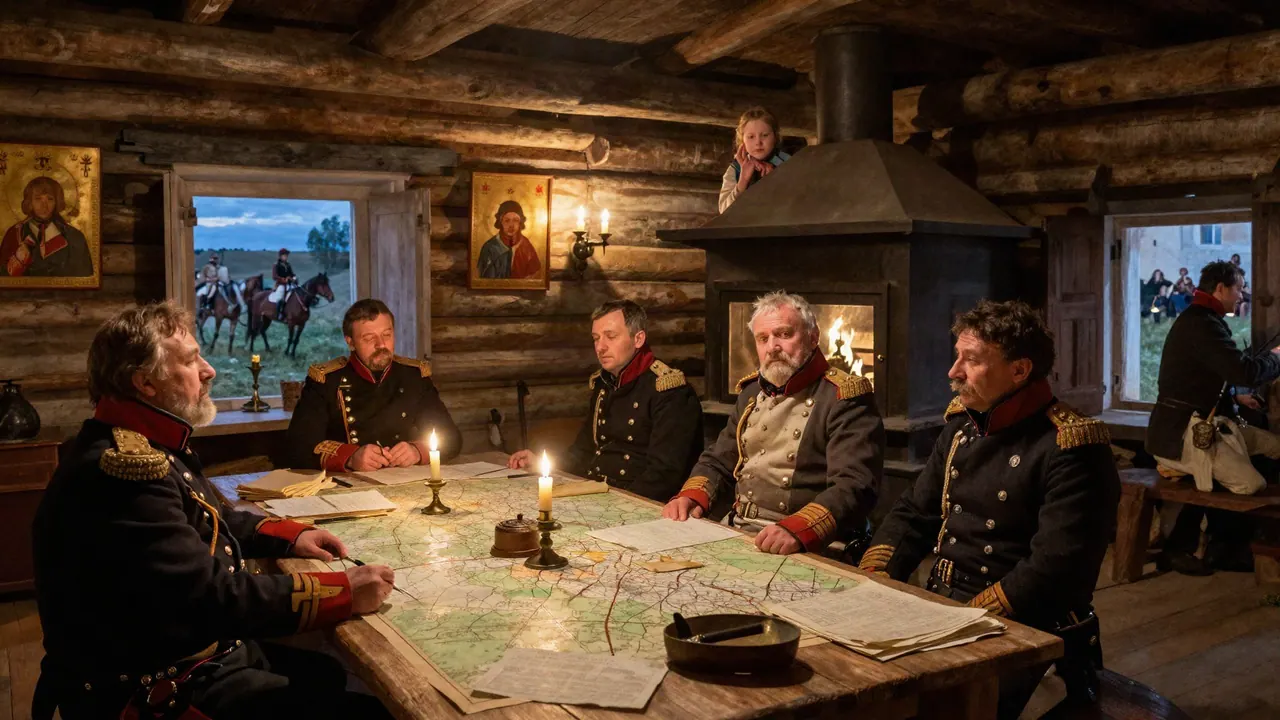
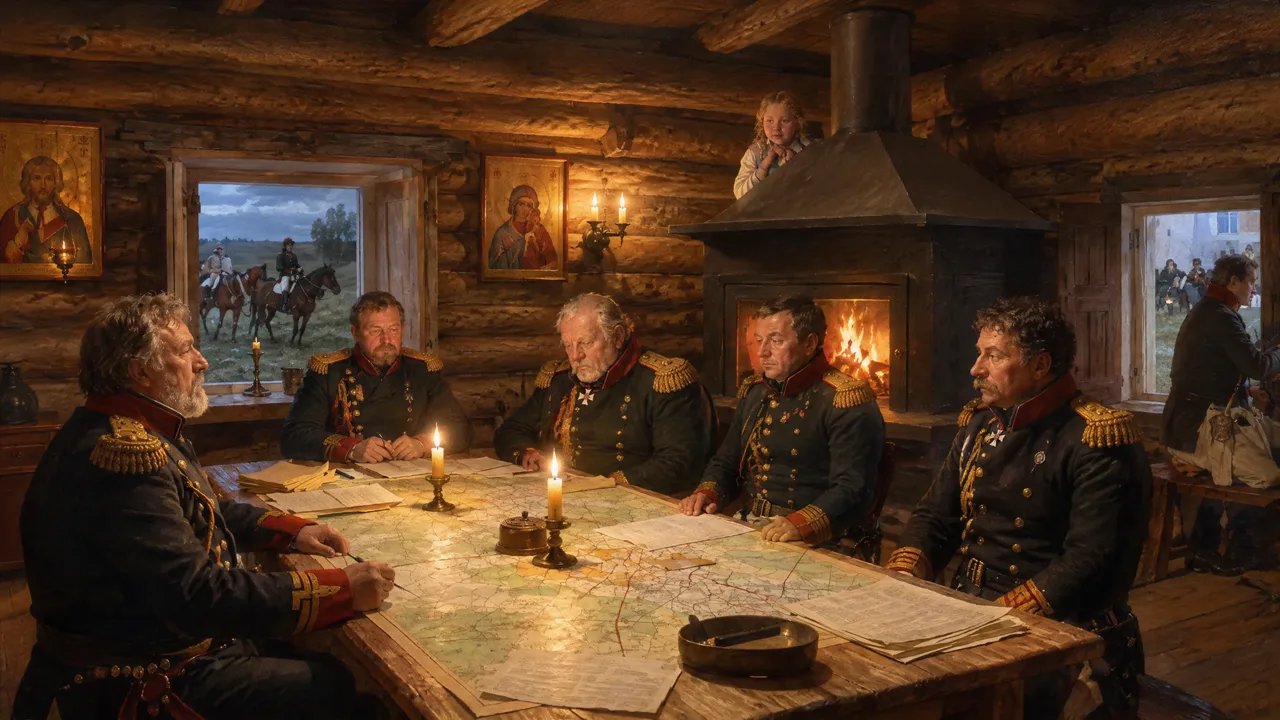
Круговые панорамы: «Фили» (реалистичнее, Кутузов), «Герой нашего времени» (на основе прежнего кадра), «Бородино» (новый узнаваемый кадр с Пьером на батарее Раевского); новые скрытые детали

diff --git a/index.html b/index.html
@@ -869,14 +869,14 @@ const ROUNDS = [
    details:['семь пар лаптей у костра','скатерть-самобранка','птичка-пеночка','верстовой столб','две старые сосны','корова с колокольчиком','ворон у костра'],
    desc:'Семь временнообязанных мужиков из соседних деревень — Заплатова, Дырявина, Разутова, Знобишина, Горелова, Неелова и Неурожайки — сошлись на столбовой дороге и заспорили, кому живётся весело, вольготно на Руси. Пеночка дарит им скатерть-самобранку, и они отправляются в путь искать счастливого.',
    quote:'В каком году — рассчитывай,\nВ какой земле — угадывай,\nНа столбовой дороженьке\nСошлись семь мужиков…', cite:'Н. А. Некрасов, «Кому на Руси жить хорошо»'},
-  {id:'borodino', set:6, img:'img/s_borodino.jpg', title:'Война и мир', titleAlt:['война и мир'],
+  {id:'borodino', loop:1, set:6, img:'img/s_borodino.jpg', title:'Война и мир', titleAlt:['война и мир'],
    author:'tolstoy', dir:4, year:'1867–1869', place:'Бородинское поле, батарея Раевского', city:'borodino', tol:30, accept:['бородин','можайск','раевск'],
-   details:['курган с батареей','белая шляпа и зелёный фрак','дым над полем','горящая деревня'],
+   details:['курган с батареей','белая шляпа и зелёный фрак','дым над полем','горящая деревня','зелёные зарядные ящики','белая церковь в селе','река Колоча','ополченцы в белых рубахах','колонны французов'],
    desc:'Бородинское сражение глазами Пьера Безухова: штатский в белой шляпе и зелёном фраке попадает на батарею Раевского в самый разгар боя. Солдаты сначала смеются над ним, потом принимают как своего; к концу дня на батарее почти никого не остаётся.',
    quote:'Весь интерес мой сосредоточился на том, что происходит…', cite:'Л. Н. Толстой, «Война и мир»'},
-  {id:'fili', set:6, img:'img/s_fili.jpg', title:'Война и мир', titleAlt:['война и мир'],
+  {id:'fili', loop:1, set:6, img:'img/s_fili.jpg', title:'Война и мир', titleAlt:['война и мир'],
    author:'tolstoy', dir:4, year:'1867–1869', place:'Фили, изба крестьянина Андрея Савостьянова', city:'msk', tol:0, accept:['фил','москв','савостьянов'],
-   details:['генералы за столом с картами','девочка на печи','иконы и лампадка','свечи'],
+   details:['генералы за столом с картами','девочка на печи','иконы и лампадка','свечи','шинель на гвозде','печь и самовар на полке','хлеб на столе','окно с всадниками'],
    desc:'Военный совет в Филях: в лучшей избе крестьянина Андрея Савостьянова решают, давать ли бой под Москвой. Кутузов берёт на себя решение оставить Москву. Всё это видит шестилетняя Малаша с печи — для неё это спор «дедушки» с «длиннополым».',
    quote:'…я приказываю отступление.', cite:'Л. Н. Толстой, «Война и мир»'},
   {id:'braslet', loop:1, set:6, img:'img/s_braslet.jpg', title:'Гранатовый браслет', titleAlt:['гранатовый браслет'],
@@ -889,9 +889,9 @@ const ROUNDS = [
    details:['стальная блоха под «мелкоскопом»','крохотные инструменты','табакерка','ружья на стене'],
    desc:'Английские мастера дарят царю стальную блоху, которая танцует. Три тульских оружейника, запершись в избе, отвечают так, что без «мелкоскопа» и не разглядишь: подковывают блоху. Левша ставит гвоздики, а сама подкова настолько мала, что её не видно. Сказ о таланте, который отечеству оказывается не нужен.',
    quote:'…мы в науках не зашлись, но только своему отечеству верно преданные.', cite:'Н. С. Лесков, «Левша»'},
-  {id:'meri', set:6, img:'img/s_meri.jpg', title:'Герой нашего времени', titleAlt:['герой нашего времени','княжна мери'],
+  {id:'meri', loop:1, set:6, img:'img/s_meri.jpg', title:'Герой нашего времени', titleAlt:['герой нашего времени','княжна мери'],
    author:'lermontov', dir:4, dirAlt:[3], year:'1840', place:'Пятигорск, бульвар у источника', city:'pyatigorsk', tol:30, accept:['пятигорск','кисловодск','машук'],
-   details:['стакан у колодца','галерея источника','Машук','снежные вершины на горизонте'],
+   details:['стакан у колодца','галерея источника','Машук','снежные вершины на горизонте','колоннада с арками','гора, похожая на мохнатую шапку','пятиглавая гора'],
    desc:'Водяное общество на Кавказских минеральных водах: у колодца пьют кислую воду, по бульвару гуляют. Печорин от скуки начинает игру с юной княжной и соперником Грушницким, а игра кончается дуэлью. Повесть «Княжна Мери» — журнал Печорина.',
    quote:'Из двух друзей всегда один раб другого, хотя часто ни один из них в этом себе не признается.', cite:'М. Ю. Лермонтов, «Герой нашего времени»'},
   {id:'strannik', loop:1, set:6, img:'img/s_strannik.jpg', title:'Очарованный странник', titleAlt:['очарованный странник'],
@@ -1115,11 +1115,16 @@ const SPOTS={
           {x:0.4367,y:0.312,w:0.2183,h:0.226,t:'Казарменные ряды',q:'Одинаковые серые дома в ряд по линейке: окна, двери — всё одной мерки.'},
           {x:0.5568,y:0.087,w:0.0509,h:0.382,t:'Каланча',q:'Каланча с полосатой будкой: за всем следят, но никто не знает, зачем.'},
           {x:0.5058,y:0.252,w:0.0655,h:0.148,t:'Разобранные крыши',q:'Крыши растащены на дрова и солому: под открытым небом дешевле, чем под казённой кровлей.'}],
- borodino:[{x:.35,y:.47,w:.06,h:.1,t:'Белая шляпа',q:'Штатский среди мундиров: приехал просто посмотреть и всем мешает. Солдаты скоро его полюбят.'},
-          {x:.1,y:.65,w:.22,h:.24,t:'Батарея',q:'Курган с пушками в центре позиции. Интересный факт: французы звали его «редутом смерти».'},
-          {x:.58,y:.28,w:.2,h:.1,t:'Горящая деревня',q:'Деревушка даст имя всему сражению, хотя от неё самой почти ничего не останется.'},
-          {x:.41,y:.89,w:.15,h:.1,t:'Ядра',q:'Интересный факт: за один день обе армии сделали десятки тысяч пушечных выстрелов.'},
-          {x:.33,y:.18,w:.28,h:.18,t:'Дым',q:'К полудню дым стоял такой, что командиры уже не видели собственных полков.'}],
+ borodino:[{x:0.3770,y:0.444,w:0.0451,h:0.465,t:'Белая шляпа',q:'Штатский среди мундиров: приехал просто посмотреть и всем мешает. Солдаты скоро его полюбят.'},
+          {x:0.2183,y:0.417,w:0.1528,h:0.389,t:'Батарея',q:'Курган с пушками в центре позиции. Интересный факт: французы звали его «редутом смерти».'},
+          {x:0.7424,y:0.052,w:0.0655,h:0.208,t:'Горящая деревня',q:'Деревушка даст имя всему сражению, хотя от неё самой почти ничего не останется.'},
+          {x:0.0291,y:0.816,w:0.0509,h:0.115,t:'Ядра',q:'Интересный факт: за один день обе армии сделали десятки тысяч пушечных выстрелов.'},
+          {x:0.2402,y:0.208,w:0.2256,h:0.312,t:'Дым',q:'К полудню дым стоял такой, что командиры уже не видели собственных полков.'},
+          {x:0.1565,y:0.712,w:0.0546,h:0.156,t:'Зарядные ящики',q:'Без этих ящиков орудия замолчат через несколько залпов. Их подвозили прямо под огнём.'},
+          {x:0.4316,y:0.191,w:0.0182,h:0.149,t:'Белая церковь',q:'Накануне боя перед войсками несли чудотворную икону, и солдаты опускались на колени.'},
+          {x:0.6405,y:0.469,w:0.1419,h:0.174,t:'Река',q:'Небольшая речка перед позицией. Бой в тот день начался у переправ через неё.'},
+          {x:0.6878,y:0.694,w:0.0946,h:0.295,t:'Ополченцы',q:'Ратники в белых рубахах с крестами на шапках: они таскают раненых с поля и работают на укреплениях.'},
+          {x:0.7933,y:0.365,w:0.1237,h:0.191,t:'Колонны на дальнем краю',q:'Тёмные колонны идут через поле одна за другой. Атаки не прекращаются до самого вечера.'}],
  sobach:[{x:0.2552,y:.15,w:0.0745,h:.14,t:'Совы',q:'Одну из них скоро распотрошат — и явно не хозяин квартиры.'},
           {x:0.3260,y:.46,w:0.0671,h:.08,t:'Струны',q:'Загадка: на этом инструменте кто-то будет бренчать до двух часов ночи, доводя хозяина до бешенства.'},
           {x:0.3930,y:.25,w:0.0447,h:.24,t:'Шкаф с инструментами',q:'Хозяин квартиры возвращает людям молодость. Пациенты платят щедро и помалкивают.'},
@@ -1140,12 +1145,17 @@ const SPOTS={
           {x:0.1092,y:0.035,w:0.0873,h:0.312,t:'Две сосны',q:'Верста от тридцатого столба — и поляна с двумя старыми соснами. Под ними кое-что закопано.'},
           {x:0.6514,y:0.333,w:0.1055,h:0.434,t:'Корова',q:'Отбилась от стада с вечера, а на людские голоса отозвалась колокольчиком.'},
           {x:0.7351,y:0.056,w:0.0255,h:0.122,t:'Ворон',q:'Умная птица: сидит на дереве у самого костра и ждёт, что здесь начнётся.'}],
- fili:[{x:.55,y:.14,w:.08,h:.16,t:'Девочка на печи',q:'Самому внимательному свидетелю этого вечера шесть лет. Она болеет за «дедушку».'},
-          {x:.56,y:.4,w:.13,h:.32,t:'Старый генерал',q:'Кажется, он дремлет. На самом деле решение уже принято — вопрос лишь в том, кто скажет его вслух.'},
-          {x:.38,y:.74,w:.3,h:.18,t:'Карта',q:'На карте город, за который стоять или не стоять. Цена ответа — судьба всей армии.'},
-          {x:0,y:.19,w:.09,h:.22,t:'Красный угол',q:'Изба крестьянская, хозяева уступили её на один вечер.'},
-          {x:.36,y:.23,w:.08,h:.18,t:'Икона',q:'Совет начался в шесть вечера, а закончился уже при свечах. Проголосовать здесь не предложили.'},
-          {x:.15,y:.27,w:.13,h:.23,t:'За окном',q:'Интересный факт: эта изба сгорела в 1868 году, позже её выстроили заново — теперь там музей.'}],
+ fili:[{x:0.4454,y:0.118,w:0.0313,h:0.174,t:'Девочка на печи',q:'Самому внимательному свидетелю этого вечера шесть лет. Она болеет за «дедушку».'},
+          {x:0.2475,y:0.410,w:0.0946,h:0.458,t:'Старый генерал',q:'Седой старик во главе стола молчит дольше всех. Решение уже принято — вопрос лишь в том, кто скажет его вслух.'},
+          {x:0.3202,y:0.694,w:0.2074,h:0.295,t:'Карта',q:'На карте город, за который стоять или не стоять. Цена ответа — судьба всей армии.'},
+          {x:0.2365,y:0.165,w:0.0309,h:0.226,t:'Икона',q:'Совет начался в шесть вечера, а закончился уже при свечах. Проголосовать здесь не предложили.'},
+          {x:0.7773,y:0.174,w:0.0324,h:0.167,t:'Красный угол',q:'Изба крестьянская, хозяева уступили её на один вечер.'},
+          {x:0.2875,y:0.215,w:0.0604,h:0.243,t:'За окном',q:'Интересный факт: эта изба сгорела в 1868 году, позже её выстроили заново — теперь там музей.'},
+          {x:0.1565,y:0.215,w:0.0386,h:0.462,t:'Шинель на гвозде',q:'Генеральская шинель на гвозде: в тесной избе её хозяину не нашлось места даже у стола.'},
+          {x:0.6223,y:0.139,w:0.0873,h:0.608,t:'Печь',q:'Самое тёплое место в избе — и лучший наблюдательный пункт для тех, кто мал ростом.'},
+          {x:0.3530,y:0.583,w:0.0528,h:0.155,t:'Свечи',q:'К вечеру в избе темнеет. Свечи нужны, чтобы разглядеть карту и лица.'},
+          {x:0.9061,y:0.191,w:0.0218,h:0.156,t:'Самовар на полке',q:'Самовар на полке — признак крепкого хозяйства. Недаром штаб выбрал именно эту избу.'},
+          {x:0.7642,y:0.771,w:0.0364,h:0.115,t:'Хлеб на столе',q:'Хлеб — всё, что хозяева могли предложить тем, кто пришёл не обедать, а совещаться.'}],
  braslet:[{x:0.4974,y:.75,w:0.0671,h:.15,t:'Футляр',q:'Подарок на именины. Камни в середине — как капли; при огне они вспыхивают густым красным светом.'},
           {x:0.4340,y:.8,w:0.0484,h:.13,t:'Письмо',q:'Подписано тремя буквами. Автор боится показаться смешным — и всё равно пишет много лет.'},
           {x:0.4787,y:.5,w:0.0484,h:.2,t:'Фортепиано',q:'Загадка: вторая соната, Largo appassionato. Кто её написал?'},
@@ -1159,12 +1169,15 @@ const SPOTS={
           {x:.1,y:.19,w:.075,h:.4,t:'Щёлочки в ставнях',q:'«…сквозь малые щёлочки было видно, как внутри дома огонёк блестит». Что скрывали мастера?'},
           {x:.695,y:.1,w:.045,h:.34,t:'Лампадка',q:'«…перед Николиным образом лампадку затеплили и начали работать». Дверь заперта, ставни закрыты.'},
           {x:.11,y:.78,w:.1,h:.1,t:'Молоточки',q:'Три дня мастера никуда не выходили: «всё молоточками потюкивают». Что они там куют?'}],
- meri:[{x:.5,y:.83,w:.06,h:.12,t:'Стакан',q:'Кто-то уронил его у колодца, а поднять не смог — мешали костыли. Подняла его юная незнакомка — и с этого всё началось.'},
-          {x:.6,y:.65,w:.3,h:.18,t:'Колодец',q:'Здесь по утрам пьют кислую воду и сплетничают. Водяное общество гуляет от колодца к колодцу.'},
-          {x:.34,y:.4,w:.13,h:.17,t:'Беседка',q:'Интересный факт: беседку прозвали «Эоловой арфой» — в ней пели струны от ветра.'},
-          {x:.3,y:.02,w:.2,h:.15,t:'Туча над горой',q:'Если на макушке горы облако — жди дождя. Так говорят местные.'},
-          {x:.12,y:.16,w:.16,h:.14,t:'Двуглавая вершина',q:'На горизонте двуглавый снежный великан — его видно отсюда в ясную погоду.'},
-          {x:.46,y:.7,w:.08,h:.14,t:'Зонтик',q:'Чья-то молодая владелица прячется под ним от солнца и от назойливых взглядов.'}],
+ meri:[{x:0.4229,y:.83,w:0.0224,h:.12,t:'Стакан',q:'Кто-то уронил его у колодца, а поднять не смог — мешали костыли. Подняла его юная незнакомка — и с этого всё началось.'},
+          {x:0.4601,y:.65,w:0.1118,h:.18,t:'Колодец',q:'Здесь по утрам пьют кислую воду и сплетничают. Водяное общество гуляет от колодца к колодцу.'},
+          {x:0.3632,y:.4,w:0.0484,h:.17,t:'Беседка',q:'Интересный факт: беседку прозвали «Эоловой арфой» — в ней пели струны от ветра.'},
+          {x:0.3483,y:.02,w:0.0745,h:.15,t:'Туча над горой',q:'Если на макушке горы облако — жди дождя. Так говорят местные.'},
+          {x:0.2813,y:.16,w:0.0596,h:.14,t:'Двуглавая вершина',q:'На горизонте двуглавый снежный великан — его видно отсюда в ясную погоду.'},
+          {x:0.4079,y:.7,w:0.0298,h:.14,t:'Зонтик',q:'Чья-то молодая владелица прячется под ним от солнца и от назойливых взглядов.'},
+          {x:0.6077,y:0.330,w:0.1274,h:0.399,t:'Колоннада',q:'Под этими арками гуляют в дурную погоду: здесь знакомятся, сплетничают и подсматривают друг за другом.'},
+          {x:0.6332,y:0.132,w:0.1601,h:0.198,t:'Пятиглавая гора',q:'Её имя означает «пять гор». С бульвара видно, как она синеет на западе.'},
+          {x:0.2984,y:0.191,w:0.1383,h:0.243,t:'Гора-шапка',q:'Герой сравнивает её с мохнатой персидской шапкой: она закрывает северную часть неба.'}],
  strannik:[{x:0.2850,y:.66,w:0.0335,h:.2,t:'Шаль',q:'Цветастая, с кистями. За такую плясунью однажды бросили под ноги целое состояние — чужое.'},
           {x:0.3371,y:.61,w:0.0261,h:.17,t:'Уздечка',q:'Её хозяин — конэсер: знаток лошадей, укрощал самых диких. Сам себя называет так по-французски.'},
           {x:0.3670,y:.7,w:0.0596,h:.06,t:'Рожок',q:'Загадка: в юности он был форейтором и дул в такой рожок. Одна его шалость на дороге обернулась бедой.'},
